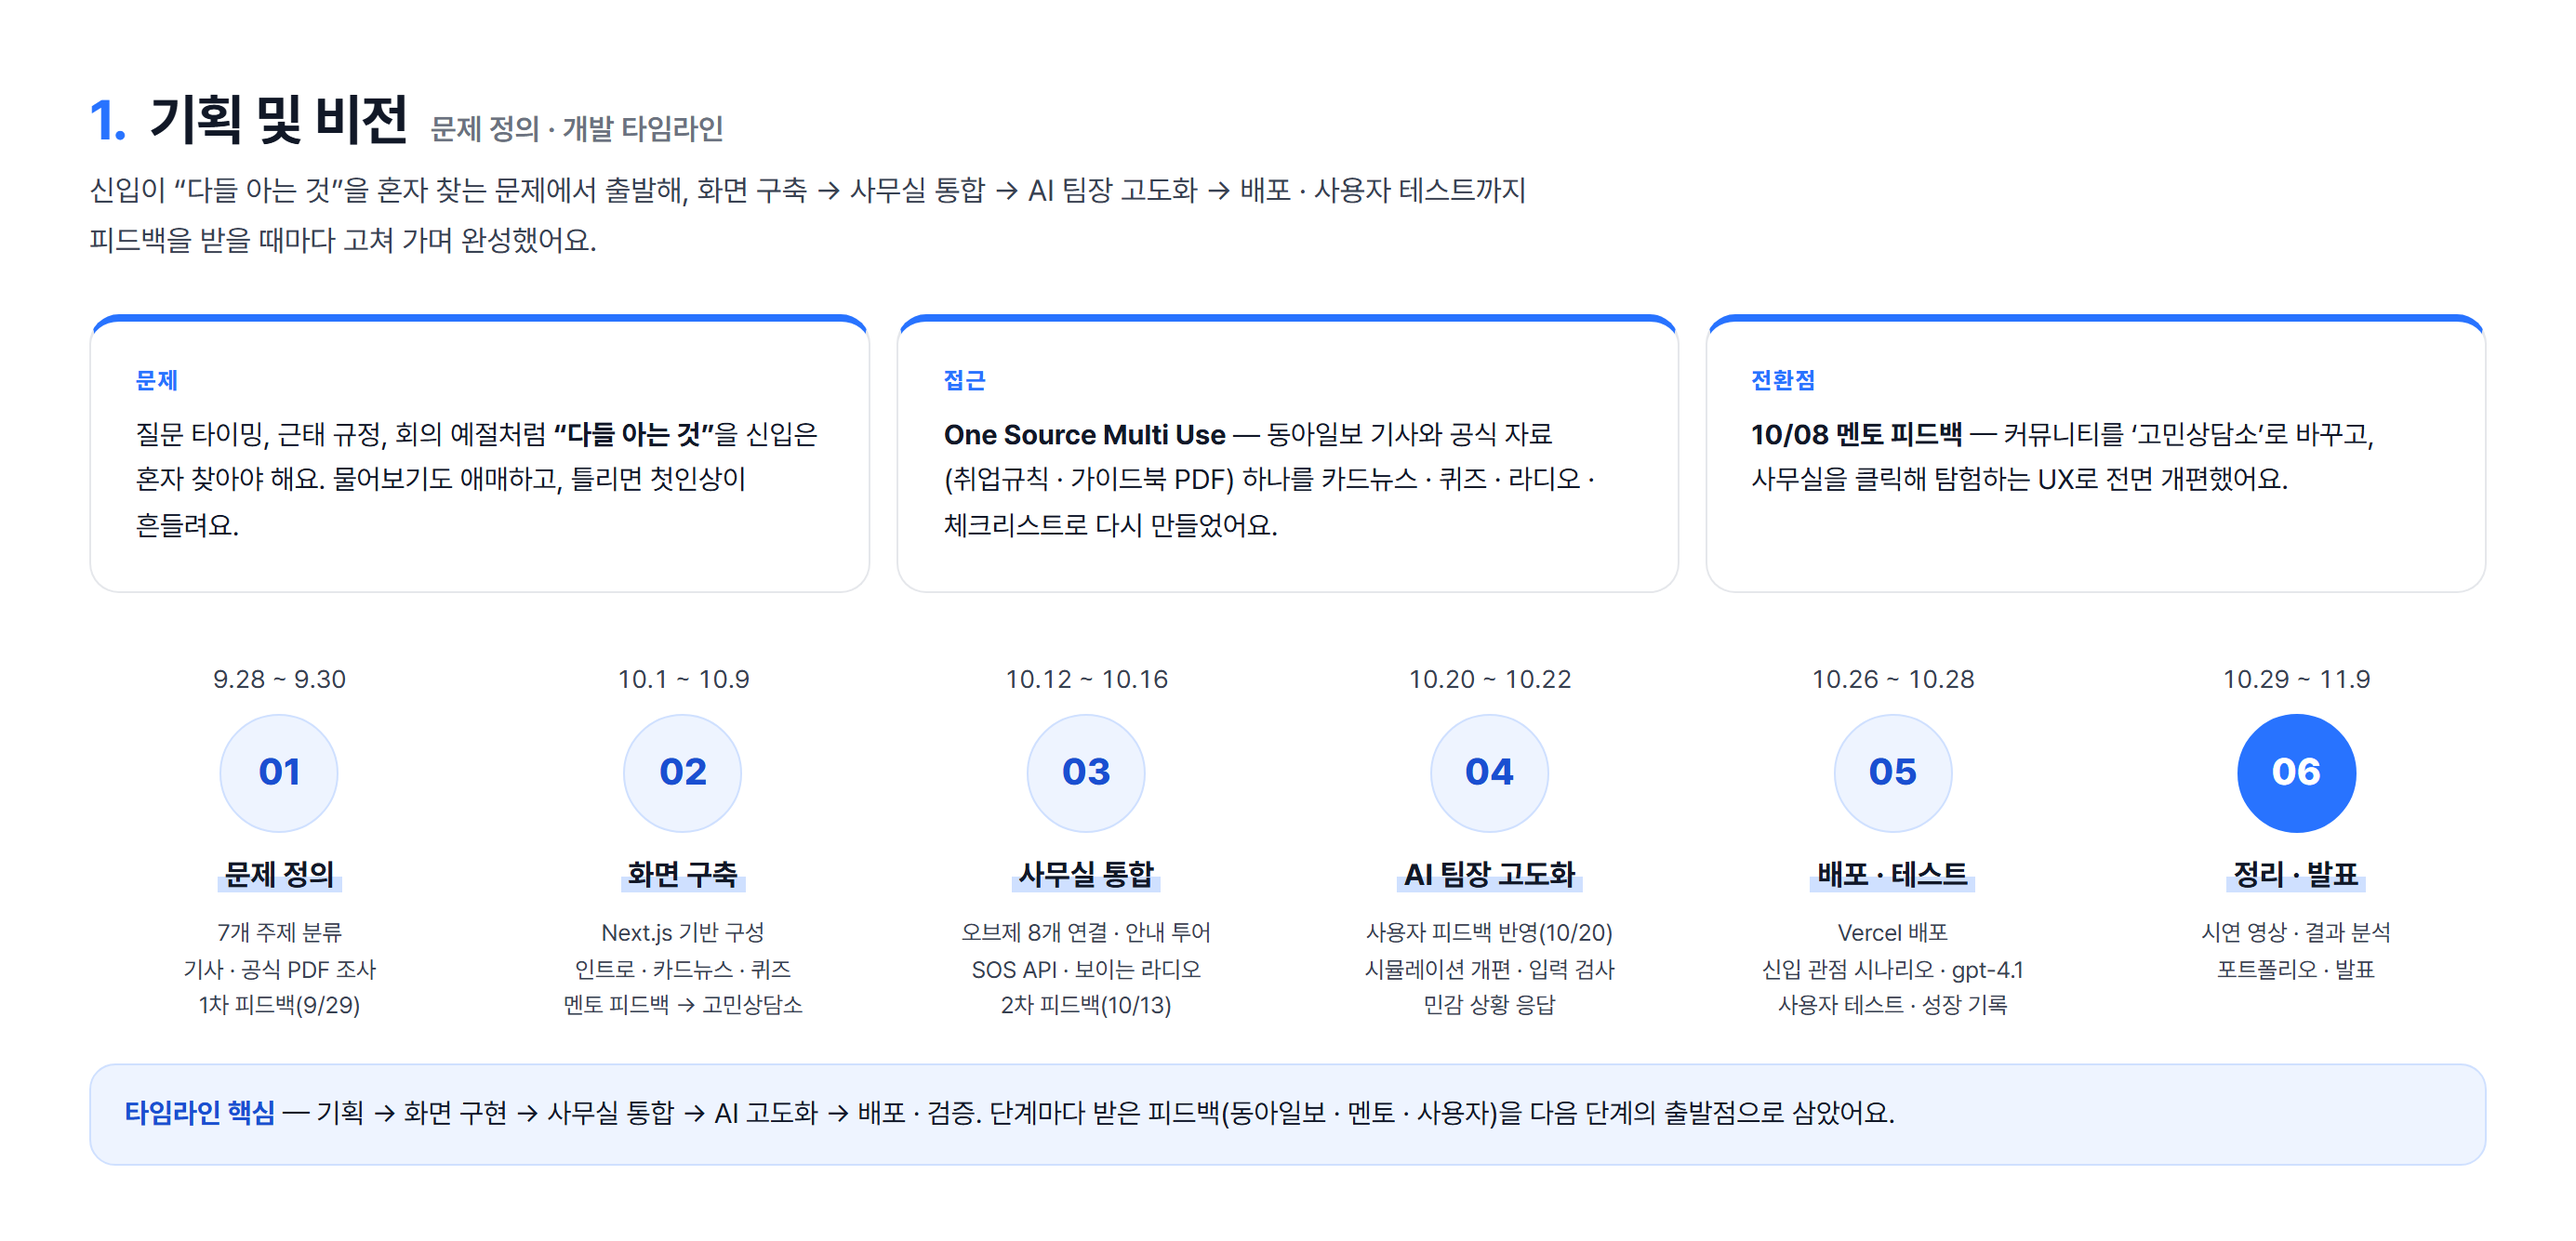
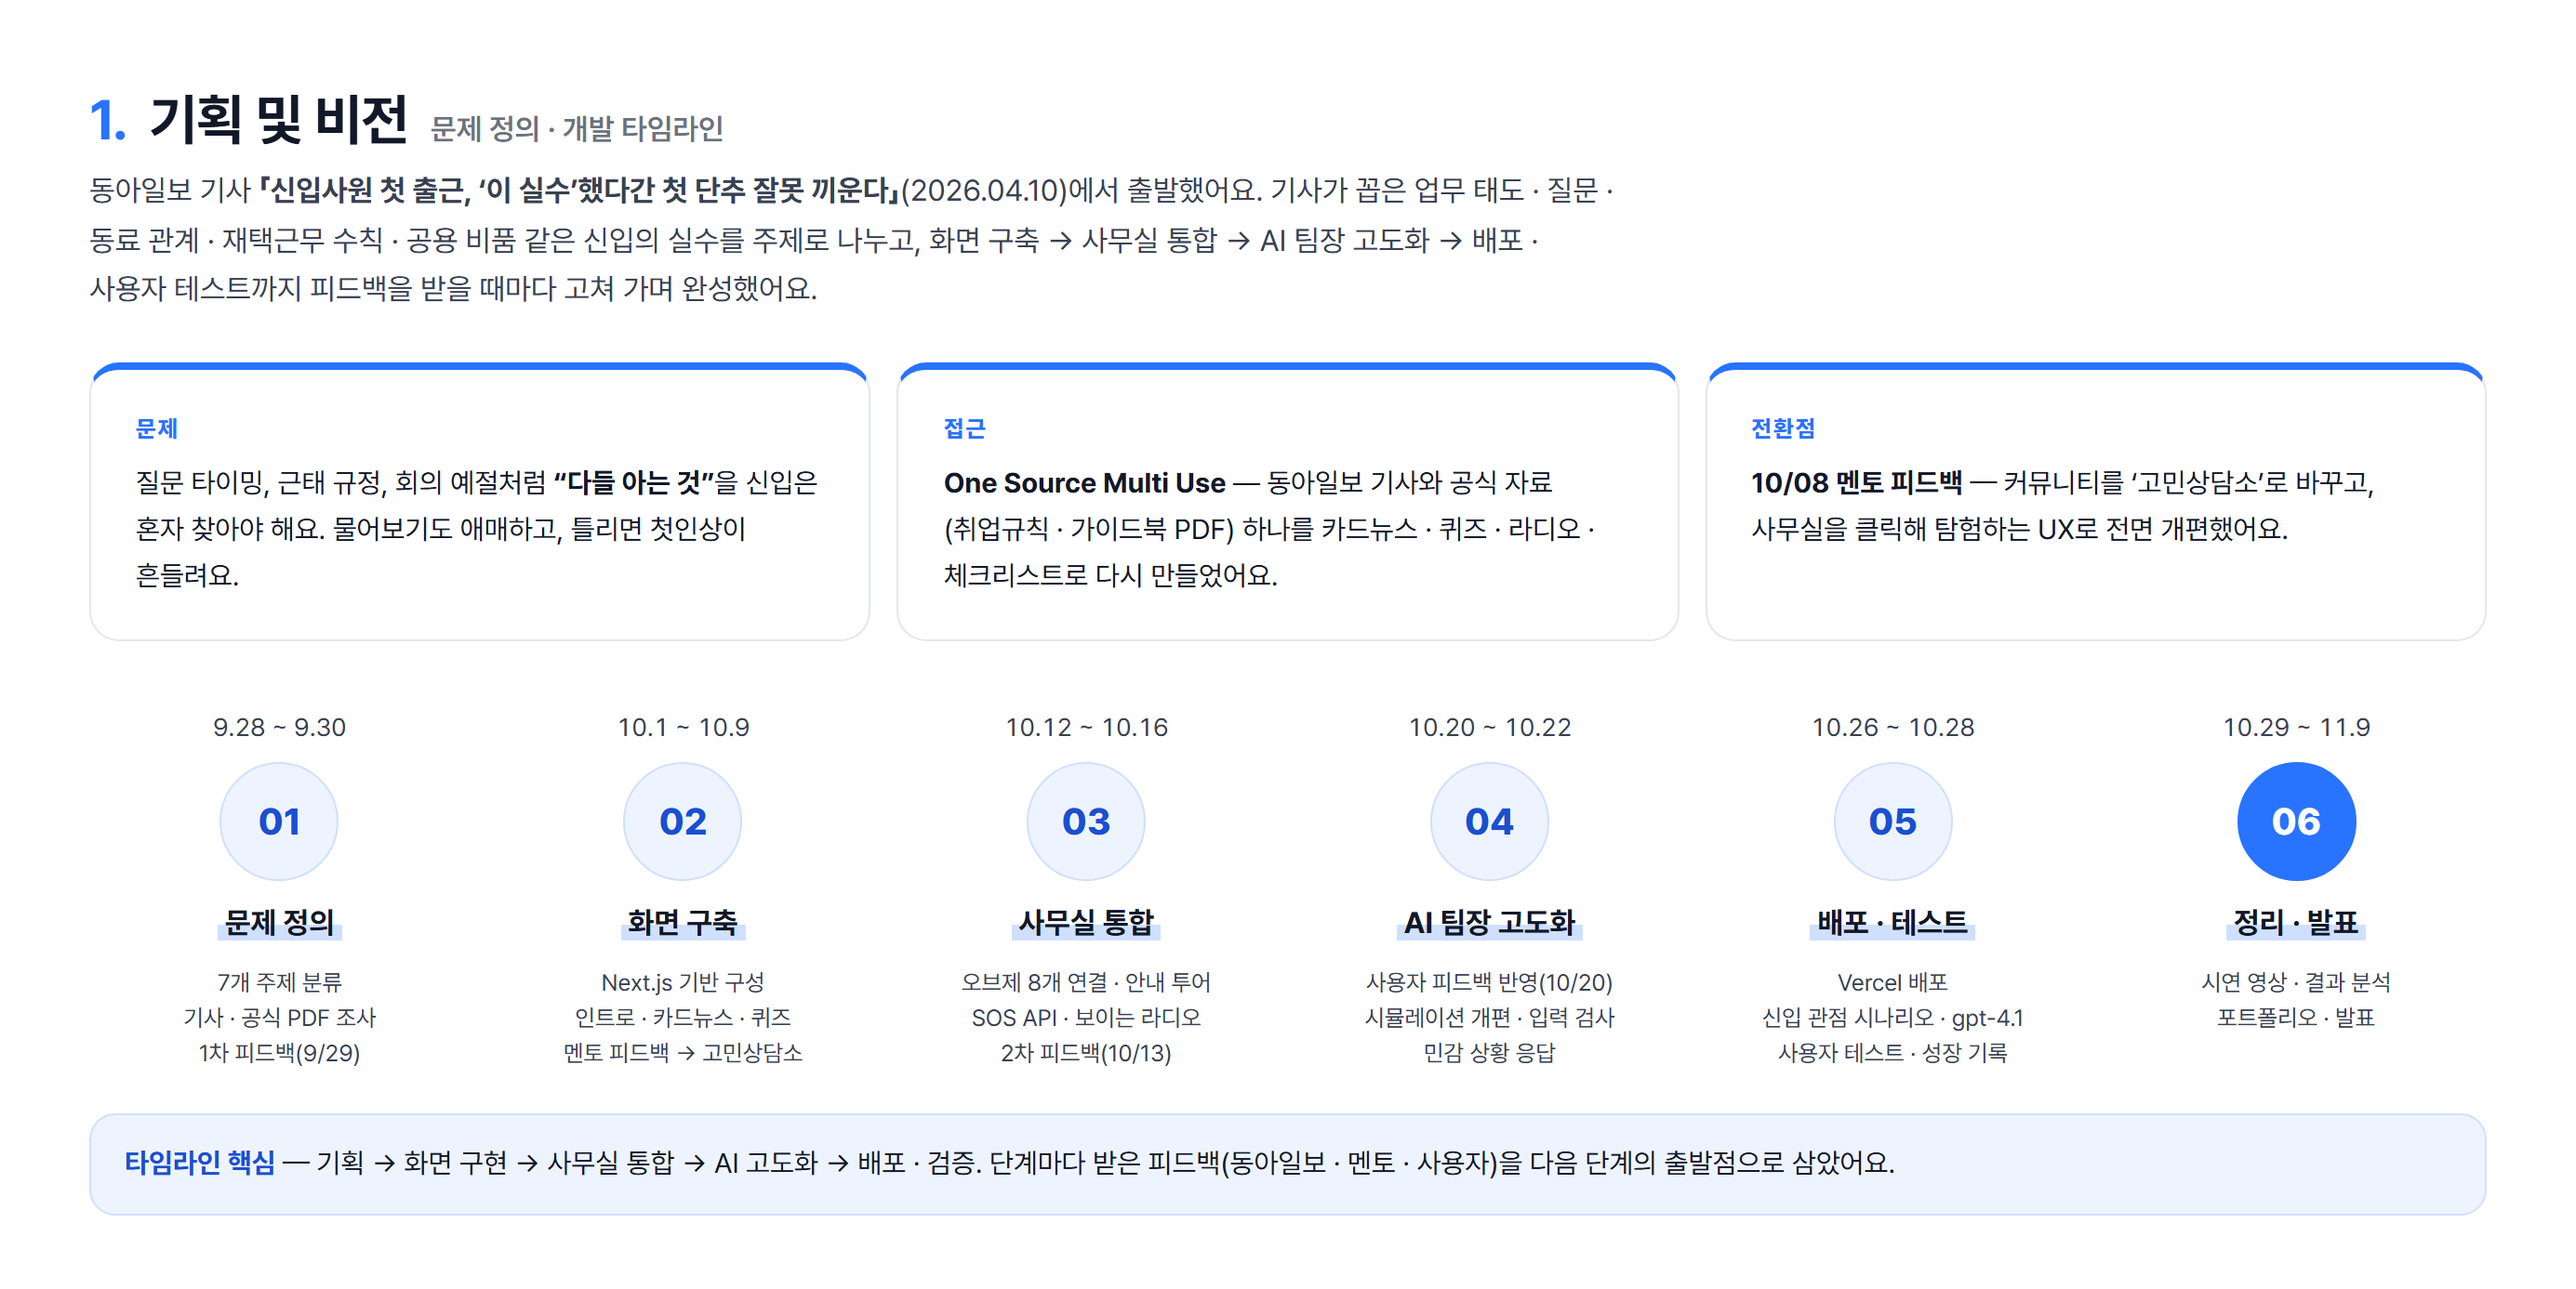
기획 및 비전: 출발점을 동아일보 신입사원 첫 출근 기사로 명시

diff --git a/README.md b/README.md
@@ -32,6 +32,8 @@
 
 ![1. 기획 및 비전 — 문제 정의 · 개발 타임라인](docs/sections/plan.png)
 
+출발점 기사: [동아일보 「신입사원 첫 출근, ‘이 실수’했다간 첫 단추 잘못 끼운다」 (2026.04.10) ↗](https://www.donga.com/news/Society/article/all/20260410/133715092/2)
+
 ---
 
 <a name="s2"></a>
